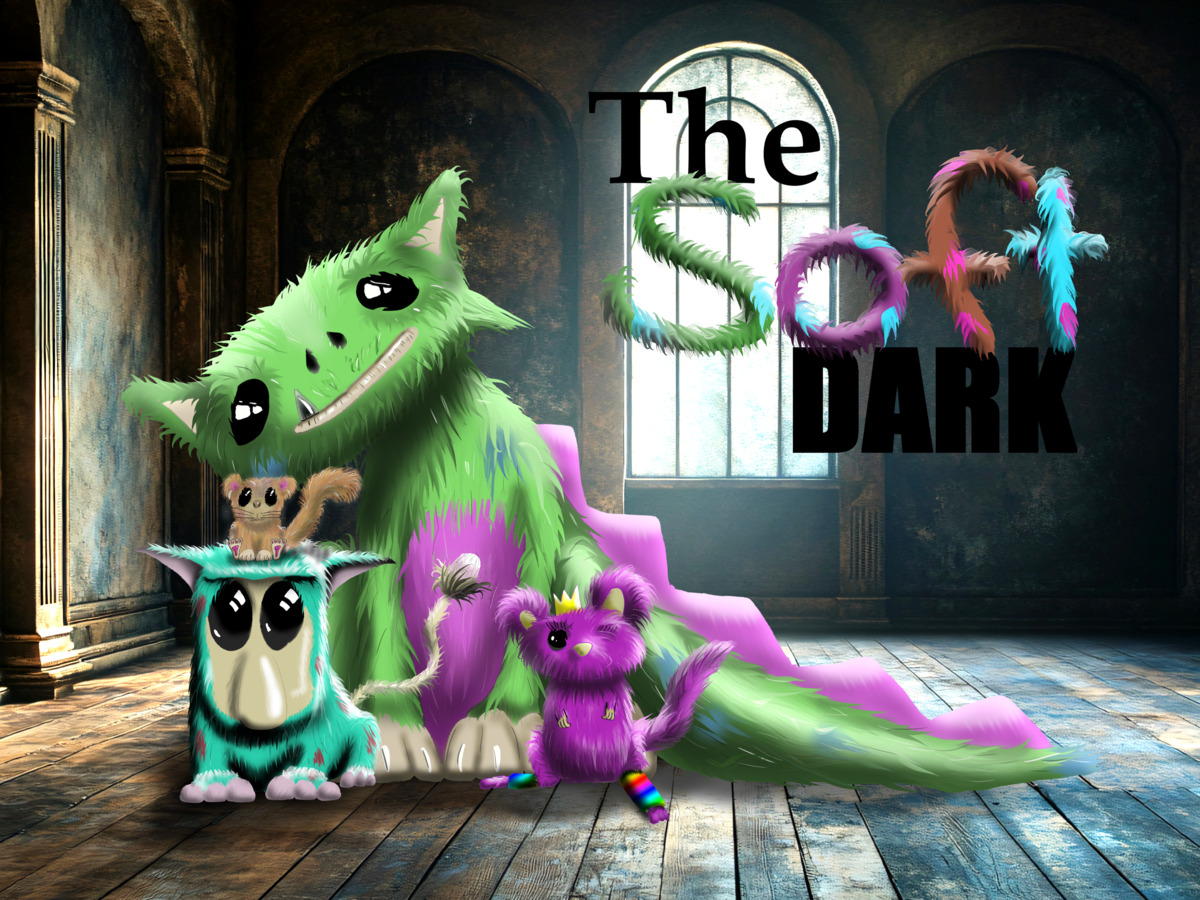
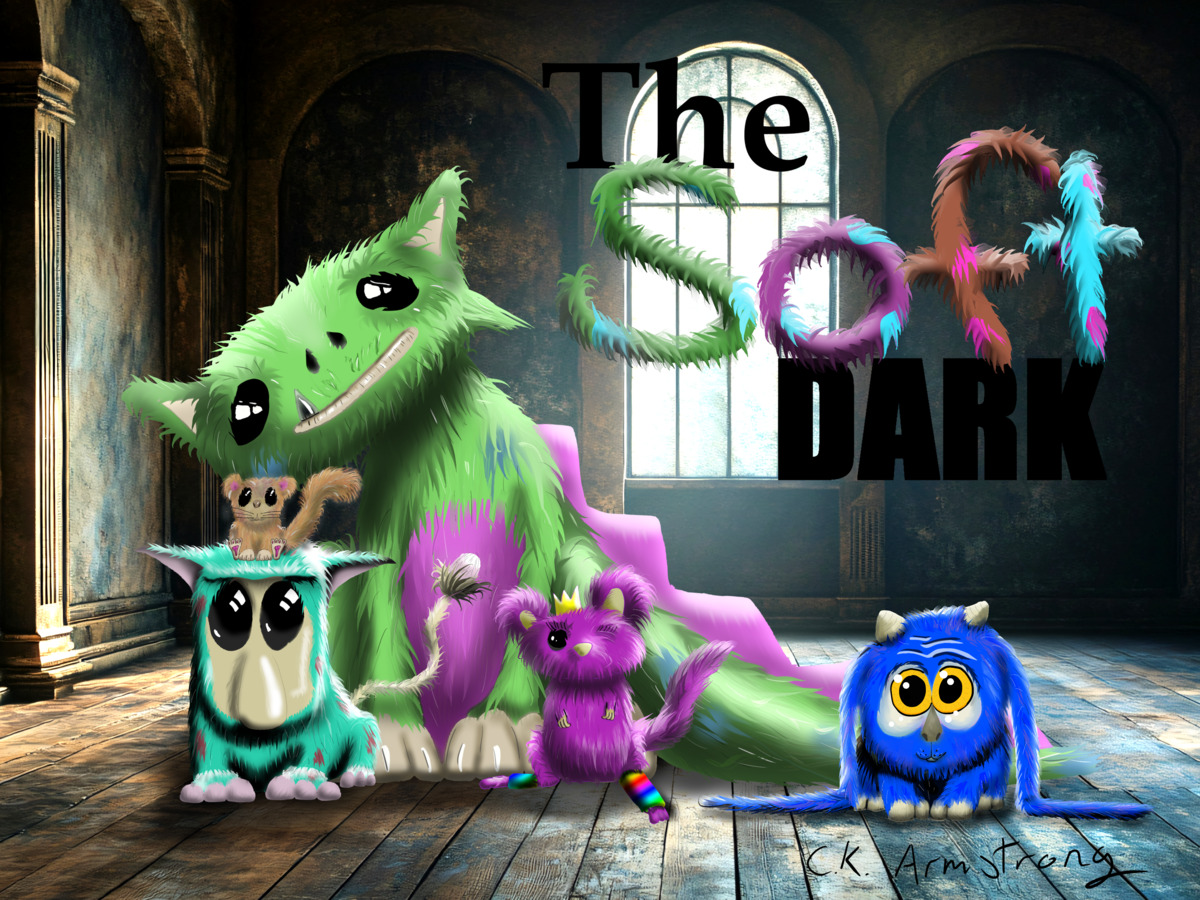
Update Soft Dark page with 5 Tufts and individual listings

diff --git a/projects/softdark.html b/projects/softdark.html
@@ -42,45 +42,87 @@
     </div>
   </nav>
 
-  <main class="flex-1 max-w-3xl mx-auto px-6 py-16 md:py-24">
+  <main class="flex-1 max-w-4xl mx-auto px-6 py-16 md:py-24">
 
     <h1 class="font-display text-4xl md:text-5xl font-bold mb-8 animate-fade-up delay-1" style="color: var(--color-text);">The Soft Dark</h1>
 
-    <!-- What it is -->
-    <div class="space-y-4 text-base leading-relaxed mb-12 animate-fade-up delay-2" style="color: var(--color-text);">
-      <p>The Soft Dark is a place that's soft... and dark. It's home to a host of creatures that are ferociously timid. And soft, oh so soft.</p>
-      <p>Four creatures from the Soft Dark wake up in gardens and alleys across the globe. They have no memory of the shift. Four children find them. They must hide a tiger-sized, moss-green fluffball in the pantry before their parents walk in. The creatures feel a pull toward each other. The kids have to bridge the gap.</p>
+    <!-- Hero Image -->
+    <div class="mb-12 animate-fade-up delay-2">
+      <img src="../assets/images/softdark_hero.jpg" alt="The Soft Dark - All Five Tufts" class="rounded-xl shadow-lg w-full">
     </div>
 
-    <!-- Preview images -->
-    <div class="mb-12 animate-fade-up delay-3">
-      <img src="../assets/images/softdark_hero.jpg" alt="The Soft Dark Title" class="rounded-lg shadow-md w-full mb-4">
-      <div class="grid grid-cols-2 gap-4">
-        <img src="../assets/images/softdark_group.jpg" alt="The Tufts Group" class="rounded-lg shadow-md w-full h-48 object-cover">
-        <img src="../assets/images/softdark_creature1.jpg" alt="Delilah" class="rounded-lg shadow-md w-full h-48 object-cover">
+    <!-- What it is -->
+    <div class="max-w-2xl mx-auto space-y-4 text-base leading-relaxed mb-16 animate-fade-up delay-3" style="color: var(--color-text);">
+      <p>The Soft Dark is a place that's soft... and dark. It's home to a host of creatures that are ferociously timid. And soft, oh so soft.</p>
+      <p>Five creatures from the Soft Dark wake up in gardens and alleys across the globe. They have no memory of the shift. Five children find them. They must hide a tiger-sized, moss-green fluffball in the pantry before their parents walk in. The creatures feel a pull toward each other. The kids have to bridge the gap.</p>
+    </div>
+
+    <!-- The Creatures -->
+    <h2 class="font-display text-3xl font-bold mb-12 text-center animate-fade-up" style="color: var(--color-text);">Meet the Tufts</h2>
+
+    <div class="grid md:grid-cols-2 gap-12 mb-24">
+
+      <!-- Delilah -->
+      <div class="reveal space-y-4">
+        <img src="../assets/images/softdark_delilah.jpg" alt="Delilah" class="rounded-lg shadow-md w-full h-64 object-cover">
+        <h3 class="font-display text-2xl font-semibold" style="color: var(--color-text);">Delilah</h3>
+        <p class="text-sm leading-relaxed" style="color: var(--color-text-muted);">Tiger-sized, green, fuzzy, pink belly, and a fin-ridged tail. She loves scratches on her shoulder blades but has a deep-seated hatred for plant pots.</p>
       </div>
+
+      <!-- Flubo -->
+      <div class="reveal space-y-4">
+        <img src="../assets/images/softdark_flubo.jpg" alt="Flubo" class="rounded-lg shadow-md w-full h-64 object-cover">
+        <h3 class="font-display text-2xl font-semibold" style="color: var(--color-text);">Flubo</h3>
+        <p class="text-sm leading-relaxed" style="color: var(--color-text-muted);">Loves anything high pitched. You'll often find him in windy places, sitting near things that whistle with the gusts. He hates picture frames—not the pictures, just the frames.</p>
+      </div>
+
+      <!-- Shim -->
+      <div class="reveal space-y-4">
+        <img src="../assets/images/softdark_shim.jpg" alt="Shim" class="rounded-lg shadow-md w-full h-64 object-cover">
+        <h3 class="font-display text-2xl font-semibold" style="color: var(--color-text);">Shim</h3>
+        <p class="text-sm leading-relaxed" style="color: var(--color-text-muted);">Tiny and peculiar. He loves sleeping with his head against a wall, though he doesn't know why. He strongly dislikes the word "hate."</p>
+      </div>
+
+      <!-- Hamish -->
+      <div class="reveal space-y-4">
+        <img src="../assets/images/softdark_hamish.jpg" alt="Hamish" class="rounded-lg shadow-md w-full h-64 object-cover">
+        <h3 class="font-display text-2xl font-semibold" style="color: var(--color-text);">Hamish</h3>
+        <p class="text-sm leading-relaxed" style="color: var(--color-text-muted);">Wears a crown but is not in charge. He loves to jump, but never too high—he has a secret fear of heights.</p>
+      </div>
+
+      <!-- Louis -->
+      <div class="reveal space-y-4">
+        <img src="../assets/images/softdark_louis.jpg" alt="Louis" class="rounded-lg shadow-md w-full h-64 object-cover">
+        <h3 class="font-display text-2xl font-semibold" style="color: var(--color-text);">Louis</h3>
+        <p class="text-sm leading-relaxed" style="color: var(--color-text-muted);">Often found perched on his favorite chair. He has a quiet dignity and a watchful eye, always observing the world around him with curiosity.</p>
+      </div>
+
     </div>
 
     <!-- Status -->
-    <h2 class="font-display text-2xl font-semibold mb-4" style="color: var(--color-text);">Status</h2>
-    <p class="text-sm mb-12 p-4 rounded-lg border" style="color: var(--color-text-muted); border-color: var(--color-border); background-color: var(--color-bg-warm);">
-      Currently in development. The specimens are gathering.
-    </p>
+    <div class="max-w-2xl mx-auto mb-16">
+      <h2 class="font-display text-2xl font-semibold mb-4" style="color: var(--color-text);">Status</h2>
+      <p class="text-sm p-4 rounded-lg border" style="color: var(--color-text-muted); border-color: var(--color-border); background-color: var(--color-bg-warm);">
+        Currently in development. The specimens are gathering.
+      </p>
+    </div>
 
     <!-- C-AITS Ratings -->
-    <h2 class="font-display text-2xl font-semibold mb-6" style="color: var(--color-text);">Transparency Ratings</h2>
-    <p class="text-sm mb-6" style="color: var(--color-text-muted);">Rated per component using the <a href="../caits.html" class="underline hover:no-underline" style="color: var(--color-accent);">C-AITS scale</a>.</p>
+    <div class="max-w-2xl mx-auto mb-16">
+      <h2 class="font-display text-2xl font-semibold mb-6" style="color: var(--color-text);">Transparency Ratings</h2>
+      <p class="text-sm mb-6" style="color: var(--color-text-muted);">Rated per component using the <a href="../caits.html" class="underline hover:no-underline" style="color: var(--color-accent);">C-AITS scale</a>.</p>
 
-    <div class="space-y-3 mb-12">
-      <div class="flex items-center gap-4 p-3 rounded" style="background-color: var(--color-bg-warm);">
-        <img src="../assets/caits/caits-0.svg" alt="C-AITS 0" class="w-8 h-8">
-        <span class="text-sm font-medium" style="color: var(--color-text);">Story / Text</span>
-        <span class="ml-auto text-xs font-medium" style="color: var(--color-text-muted);">Level 0 — The Soul</span>
-      </div>
-      <div class="flex items-center gap-4 p-3 rounded" style="background-color: var(--color-bg-warm);">
-        <img src="../assets/caits/caits-0.svg" alt="C-AITS 0" class="w-8 h-8">
-        <span class="text-sm font-medium" style="color: var(--color-text);">Illustrations</span>
-        <span class="ml-auto text-xs font-medium" style="color: var(--color-text-muted);">Level 0 — The Soul</span>
+      <div class="space-y-3">
+        <div class="flex items-center gap-4 p-3 rounded" style="background-color: var(--color-bg-warm);">
+          <img src="../assets/caits/caits-0.svg" alt="C-AITS 0" class="w-8 h-8">
+          <span class="text-sm font-medium" style="color: var(--color-text);">Story / Text</span>
+          <span class="ml-auto text-xs font-medium" style="color: var(--color-text-muted);">Level 0 — The Soul</span>
+        </div>
+        <div class="flex items-center gap-4 p-3 rounded" style="background-color: var(--color-bg-warm);">
+          <img src="../assets/caits/caits-0.svg" alt="C-AITS 0" class="w-8 h-8">
+          <span class="text-sm font-medium" style="color: var(--color-text);">Illustrations</span>
+          <span class="ml-auto text-xs font-medium" style="color: var(--color-text-muted);">Level 0 — The Soul</span>
+        </div>
       </div>
     </div>
 
